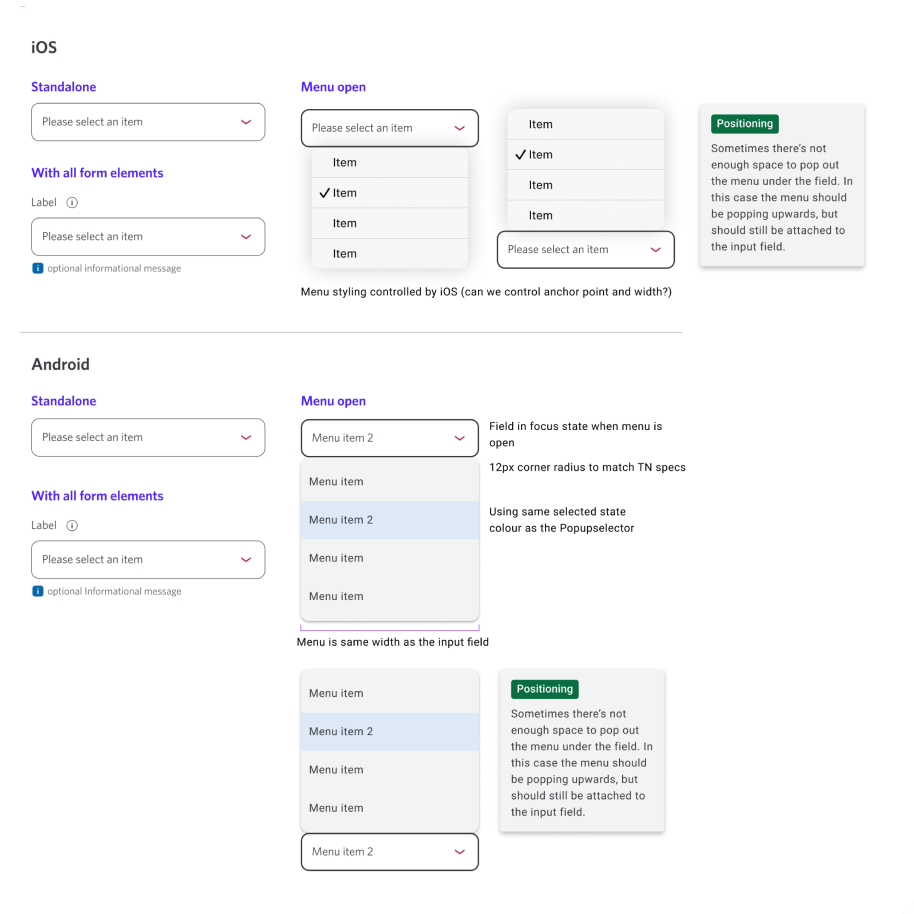
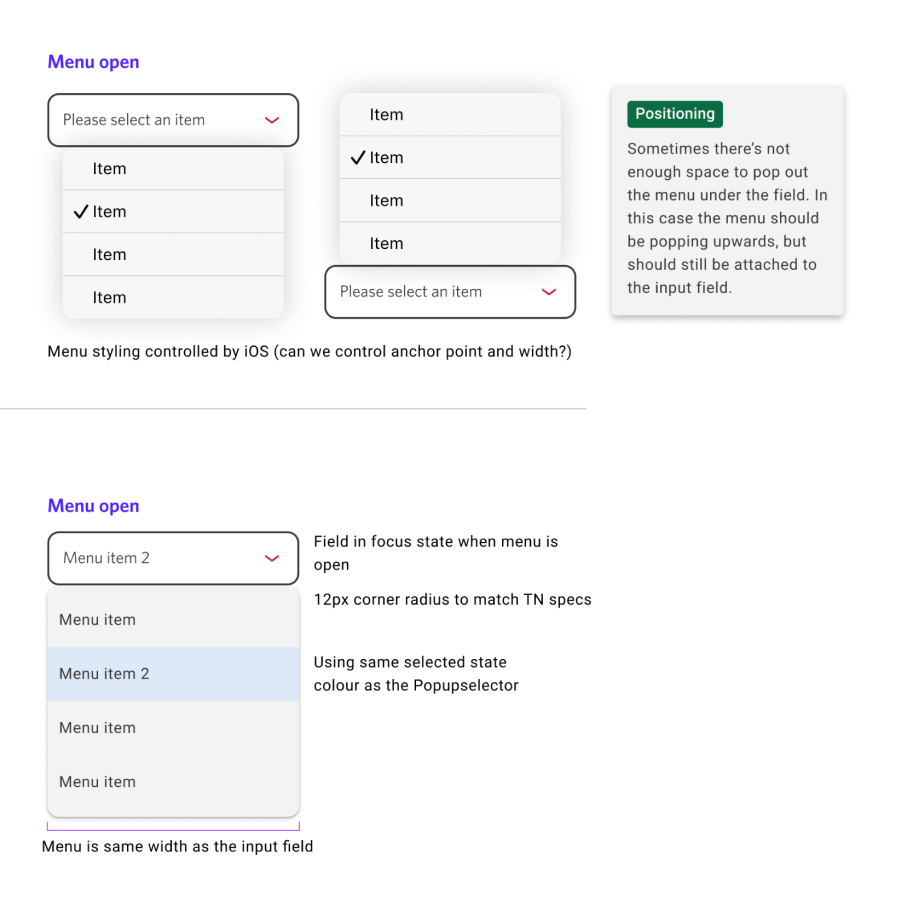
Fix tradeoff and research styling

diff --git a/case-study-cibc.html b/case-study-cibc.html
@@ -113,7 +113,7 @@ Customers depend on teller interaction to complete bank draft requests, increasi
   </svg>
 
   <div class="dial-content">
-    <div class="metric-value">45m</div>
+    <div class="metric-value">45min</div>
     <div class="metric-label">Estimated service time </div>
   </div>
 
@@ -385,6 +385,8 @@ Dropdown surfaces key information, reducing interaction complexity
     </div>
   </section>
   
+
+
 <section class="projects-section">
     <div class="projects-grid">
 
@@ -397,57 +399,40 @@ Dropdown surfaces key information, reducing interaction complexity
            
 
             <h3 class="project-title">
-Integrated with existing data hub across pods
+Contributing to interaction patterns
            </h3>
 
             <p class="project-description">
-We aligned with adjacent product pods (design, PM, and engineering) to ensure the request flow worked within the existing data hub architecture and design patterns.
+Designed dropdown behavior and documented usage guidelines to support consistent application across workflows.
 </p>
 </div>
-
-        </div>
-
-        <div class="project-tile">
-          
+<div class="impact-stack">
 
 
- <div class="project-image--default">
-  <div class="image-frame">
-
-            <img src="assets/service-request.png" alt="CIBC project preview">
+  <div class="impact-label">
+    Components contributed
   </div>
-          </div>
 
+  <div class="impact-list">
 
-
-
-        </div>
-
-      </div>
-
+    <div class="impact-point">
+      <span class="impact-dot"></span>
+      <span>Dropdown selection</span>
     </div>
-  </section>
 
-<section class="projects-section">
-    <div class="projects-grid">
+    <div class="impact-point">
+      <span class="impact-dot"></span>
+      <span>Step tracker</span>
+    </div>
 
-      <div class="project-card project-card--split">
+    <div class="impact-point">
+      <span class="impact-dot"></span>
+      <span>Calendar widget</span>
+    </div>
 
-        <div class="project-content">
+  </div>
 
-          <div class="project-top">
-
-           
-
-            <h3 class="project-title">
-Design system contribution and evolution
-           </h3>
-
-            <p class="project-description">
-Contributed to the design system by helping it evolve through new flow requirements, aligning new patterns with existing components and reusing system elements to maintain consistency across the experience.
-</p>
 </div>
-
         </div>
 
         <div class="project-tile">
@@ -474,10 +459,44 @@ Contributed to the design system by helping it evolve through new flow requireme
 
    
 <section class="metric-section">
-  <div class="metric-tile">
-    <div class="metric-value">50%</div>
-    <div class="metric-label">Reduction in uncertainty and clarifying request steps between customers and staff.</div>
+
+  <div class="outcome-card">
+
+    <div class="outcome-metric">
+      ↓ 20%
+    </div>
+
+    <div class="outcome-subtitle">
+      Estimated reduction in service time (45 min → ~36 min)
+    </div>
+
+    <div class="outcome-description">
+      Moved key steps online, leaving only in-branch verification and pickup
+    </div>
+
+    <div class="outcome-divider"></div>
+
+    <div class="outcome-list">
+
+      <div class="outcome-item">
+        <span class="impact-dot"></span>
+        <span>Operational: reduced staff time</span>
+      </div>
+
+      <div class="outcome-item">
+        <span class="impact-dot"></span>
+        <span>Experience: less staff dependency</span>
+      </div>
+
+      <div class="outcome-item">
+        <span class="impact-dot"></span>
+        <span>Workflow: hybrid online + branch</span>
+      </div>
+
+    </div>
+
   </div>
+
 </section>
 
 <section id="contact" class="contact-section">

diff --git a/case-study-cibc.css b/case-study-cibc.css
@@ -885,6 +885,83 @@ color: var(--burgundy);
   font-size: var(--text-small);
   color: #111 !important;
 }
+
+/* =========================
+   OUTCOME HERO CARD
+========================= */
+
+.outcome-card {
+  width: min(900px, 100%);
+  margin: 0 auto;
+
+  background: var(--grey);
+  border-radius: 24px;
+
+  padding: 72px 48px;
+
+  display: flex;
+  flex-direction: column;
+  align-items: center;
+  text-align: center;
+
+  gap: 18px;
+}
+
+/* BIG NUMBER */
+.outcome-metric {
+  font-size: clamp(42px, 6vw, 72px);
+  font-weight: 700;
+  color: var(--black);
+  line-height: 1;
+}
+
+/* SUPPORT LINE */
+.outcome-subtitle {
+  font-size: var(--text-p);
+  font-weight: 500;
+  color: var(--black);
+  opacity: 0.85;
+  max-width: 60%;
+}
+
+/* EXPLANATION */
+.outcome-description {
+  font-size: var(--text-small);
+  line-height: var(--lh-normal);
+  color: var(--black-muted);
+  max-width: 65%;
+}
+
+/* DIVIDER */
+.outcome-divider {
+  width: 60%;
+  height: 1px;
+  background: rgba(0,0,0,0.12);
+  margin: 12px 0;
+}
+
+/* LIST */
+.outcome-list {
+  display: flex;
+  flex-direction: column;
+  gap: 10px;
+
+  align-items: flex-start; /* IMPORTANT: left align inside centered card */
+  width: 60%;
+}
+
+/* ITEM */
+.outcome-item {
+  display: flex;
+  align-items: flex-start;
+  gap: 10px;
+
+  font-size: var(--text-small);
+  color: var(--black);
+  text-align: left;
+}
+
+/* reuse your dot system */
 /* =========================
    RESPONSIVE
 ========================= */

diff --git a/styles.css b/styles.css
@@ -539,7 +539,7 @@ min-height: 100dvh;
   overflow: hidden;
   border-radius: var(--radius-lg);
   padding: 0px;
-  border: 1px solid var(--black-faint); /* ✅ this is what you need */
+  border: 2px solid var(--black-faint); /* ✅ this is what you need */
 }
 .no-outline-tile img {
   width: 100%;
